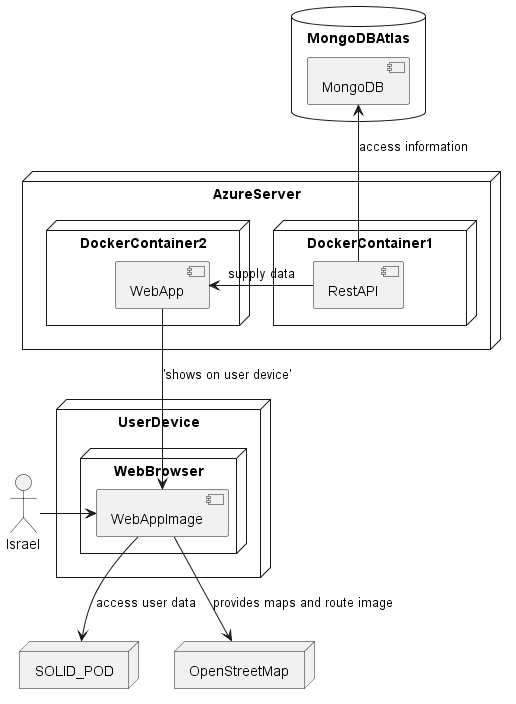
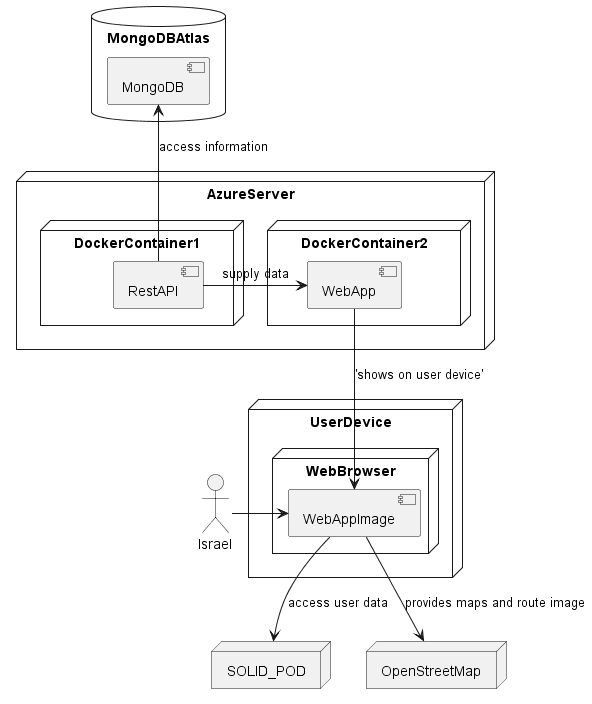
Updates

diff --git a/index.html b/index.html
@@ -1263,7 +1263,7 @@ Firstly, we have chosen IntelliJ, also from JetBrains, but after knowing we woul
 <h3 id="_infrastructure_level_1">7.1. Infrastructure Level 1</h3>
 <div class="imageblock">
 <div class="content">
-<img src="./images/07_DeploymentView.png" alt="07 DeploymentView" width="516" height="704">
+<img src="./images/07_DeploymentView.png" alt="07 DeploymentView" width="592" height="704">
 </div>
 </div>
 <div class="sect3">
